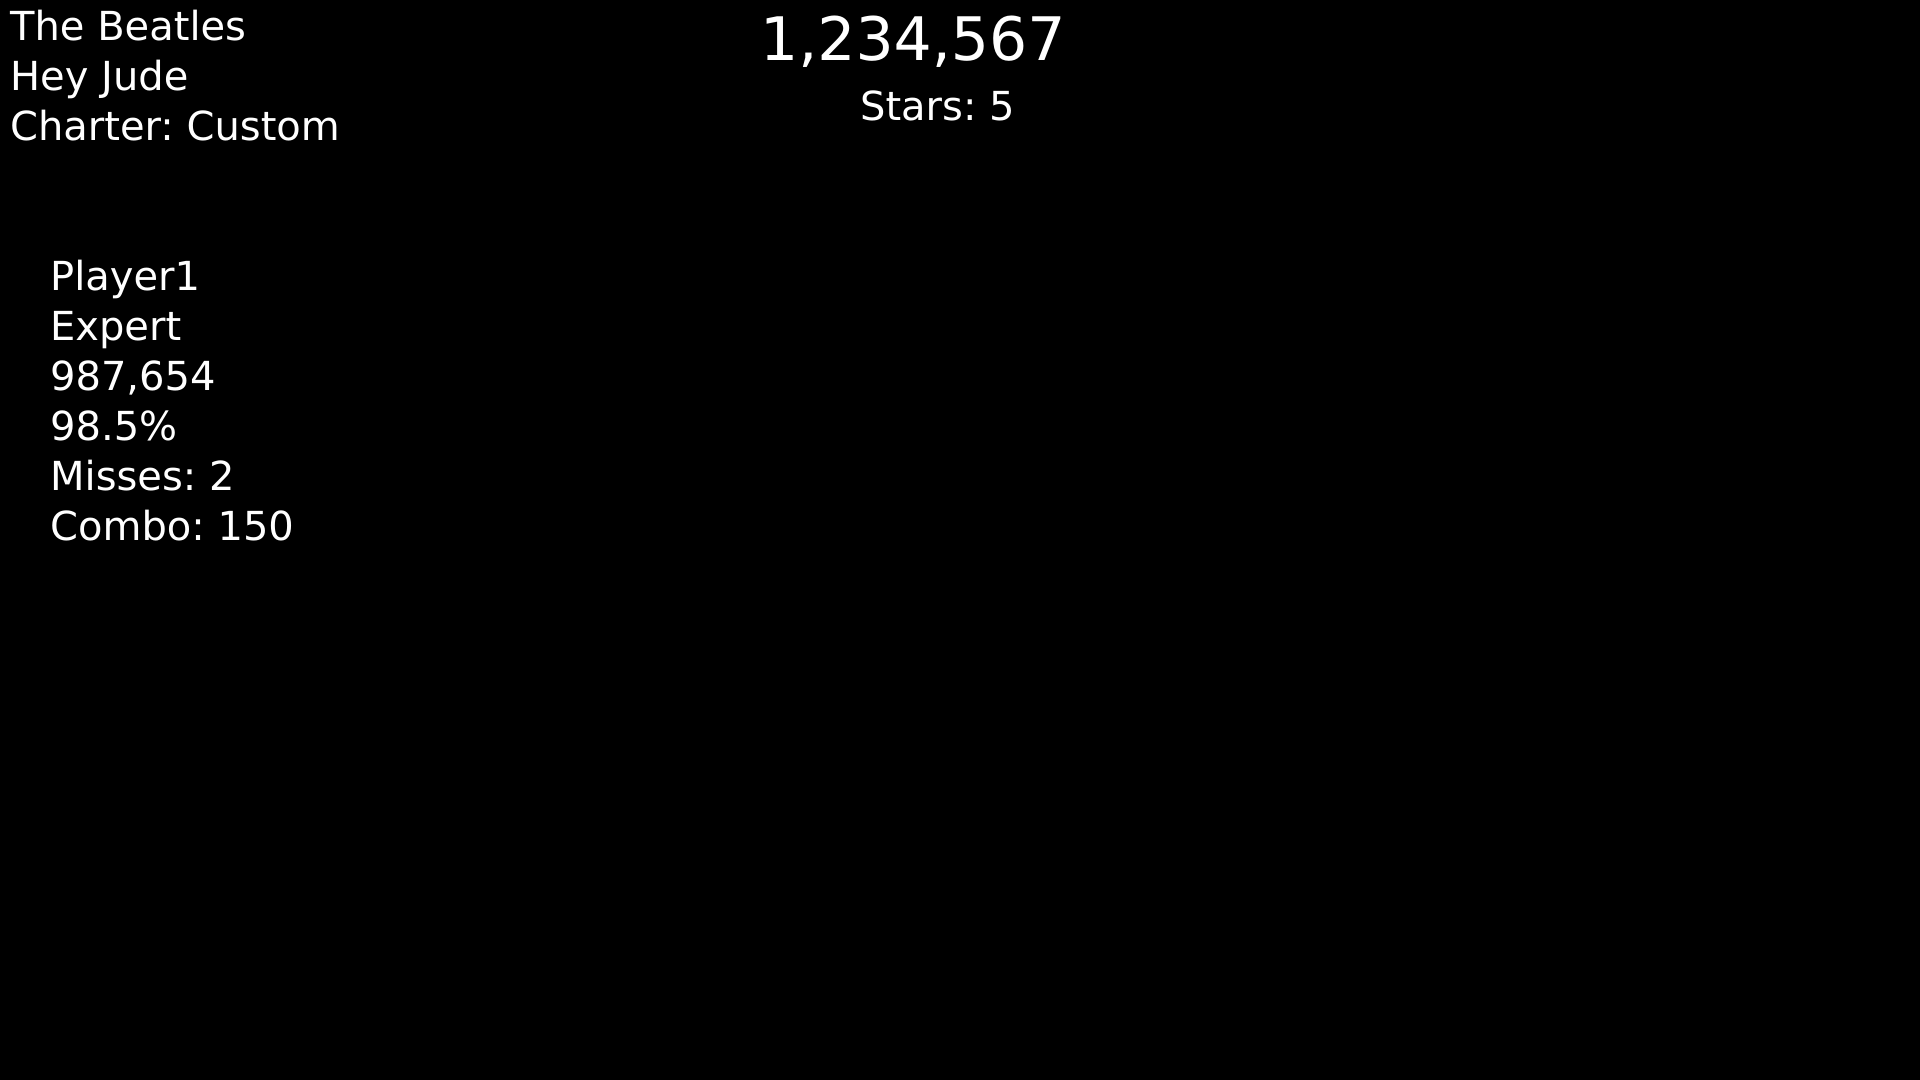
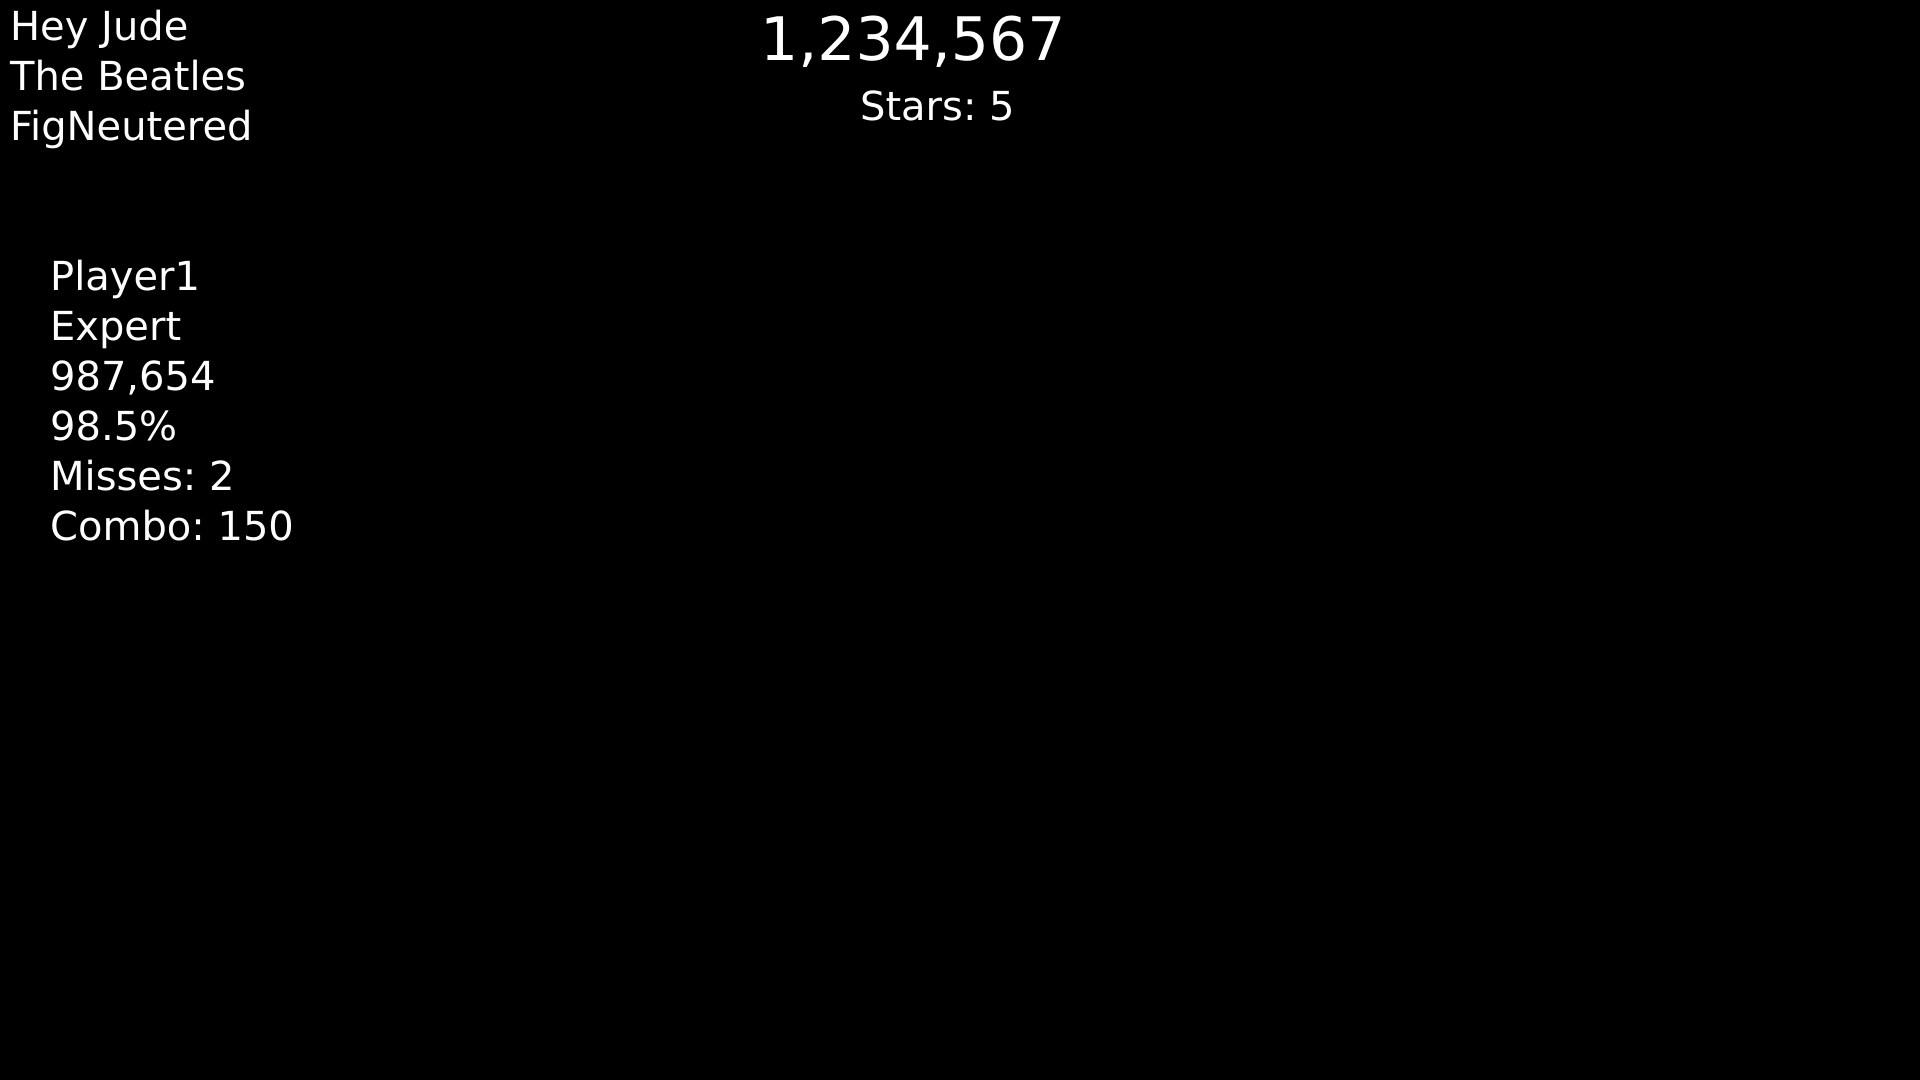
Add test files, clean up existing, update TL parsing

Changed region(s): [[0.0, 0.0, 0.1875, 0.1528]]

diff --git a/backend/internal/parser/parser_test.go b/backend/internal/parser/parser_test.go
@@ -15,6 +15,10 @@ import (
 	"github.com/stretchr/testify/require"
 )
 
+const (
+	_testImagePath = "../../../testdata"
+)
+
 func TestNewParser(t *testing.T) {
 	parser, err := NewParser(1920, 1080)
 	require.NoError(t, err)
@@ -446,50 +450,39 @@ func TestParseImage_InvalidImage(t *testing.T) {
 
 // Test that ParseImage handles files with timestamps in different formats
 func TestParseImage_TimestampFormats(t *testing.T) {
-	// This test requires Tesseract to be installed - fail loudly if not available
-	parser, close := newTestParser(t)
-	defer close()
-
-	// Create a temporary copy of the test image with different timestamp formats
-	// Fail if test image is missing
-	testImagePath := "../../../testdata/images/iamabanana.png"
-	_, err := os.Stat(testImagePath)
-	require.NoError(t, err, "Test image is required but not found: %s. This test requires the test image to be present.", testImagePath)
-
 	testCases := []struct {
 		name     string
 		filename string
+		expected time.Time
 	}{
 		{
-			name:     "timestamp in middle",
-			filename: "clonehero-Artist-20251212052231.png",
+			name:     "timestamp at end",
+			filename: "scores/clonehero-Made-Your-Mark-20251019165816.png",
+			expected: time.Date(2025, 10, 19, 16, 58, 16, 0, time.UTC),
 		},
 		{
 			name:     "timestamp at start",
-			filename: "20251212052231-image.png",
+			filename: "images/20251212052231-iamabanana.png",
+			expected: time.Date(2025, 12, 12, 5, 22, 31, 0, time.UTC),
 		},
 		{
-			name:     "no timestamp",
-			filename: "image.png",
+			name:     "no timestamp in filename falls back to file modification time",
+			filename: "images/iamabanana.png",
+			expected: time.Date(2025, 12, 13, 1, 21, 42, 384011703, time.Local),
 		},
 	}
 
 	for _, tc := range testCases {
 		t.Run(tc.name, func(t *testing.T) {
-			// Create temp file with the test filename
-			tmpDir := t.TempDir()
-			tmpPath := filepath.Join(tmpDir, tc.filename)
+			filepath := filepath.Join(_testImagePath, tc.filename)
+			parser, close := newTestParser(t)
+			defer close()
 
-			// Copy test image
-			data, err := os.ReadFile(testImagePath)
-			require.NoError(t, err)
-			err = os.WriteFile(tmpPath, data, 0644)
-			require.NoError(t, err)
+			scoreData, err := parser.ParseImage(filepath)
 
-			scoreData, err := parser.ParseImage(tmpPath)
-			// Should not error even if timestamp parsing fails (falls back to file mod time)
-			assert.NoError(t, err)
-			assert.NotNil(t, scoreData)
+			require.NoError(t, err)
+			require.NotNil(t, scoreData)
+			assert.Equal(t, tc.expected, scoreData.CreatedAt)
 		})
 	}
 }
@@ -504,100 +497,110 @@ func TestParseImage_TestImages(t *testing.T) {
 		filepath string
 		validate func(*testing.T, *db.CreateScoreData)
 	}{
+		// {
+		// 	name:     "test-top-left",
+		// 	filepath: "../../../testdata/images/test-top-left.png",
+		// 	validate: func(t *testing.T, data *db.CreateScoreData) {
+		// 		// Should extract artist, song, charter from top-left
+		// 		assert.NotEmpty(t, data.Artist, "Should extract artist from top-left")
+		// 		assert.NotEmpty(t, data.SongName, "Should extract song name from top-left")
+		// 	},
+		// },
+		// {
+		// 	name:     "test-center",
+		// 	filepath: "../../../testdata/images/test-center.png",
+		// 	validate: func(t *testing.T, data *db.CreateScoreData) {
+		// 		// Should extract score and stars from center
+		// 		// Note: OCR may not always extract perfectly, so we just check structure
+		// 		assert.NotNil(t, data, "Should parse center image")
+		// 	},
+		// },
+		// {
+		// 	name:     "test-players",
+		// 	filepath: "../../../testdata/images/test-players.png",
+		// 	validate: func(t *testing.T, data *db.CreateScoreData) {
+		// 		// Should extract player data
+		// 		assert.Greater(t, len(data.Players), 0, "Should extract at least one player")
+		// 	},
+		// },
+		// {
+		// 	name:     "test-numbers",
+		// 	filepath: "../../../testdata/images/test-numbers.png",
+		// 	validate: func(t *testing.T, data *db.CreateScoreData) {
+		// 		// Should handle various number formats
+		// 		assert.NotNil(t, data, "Should parse numbers image")
+		// 	},
+		// },
+		// {
+		// 	name:     "test-difficulty",
+		// 	filepath: "../../../testdata/images/test-difficulty.png",
+		// 	validate: func(t *testing.T, data *db.CreateScoreData) {
+		// 		// Should extract difficulty information
+		// 		assert.NotNil(t, data, "Should parse difficulty image")
+		// 	},
+		// },
+		// {
+		// 	name:     "test-percentages",
+		// 	filepath: "../../../testdata/images/test-percentages.png",
+		// 	validate: func(t *testing.T, data *db.CreateScoreData) {
+		// 		// Should extract percentage values
+		// 		assert.NotNil(t, data, "Should parse percentages image")
+		// 	},
+		// },
+		// {
+		// 	name:     "test-complete",
+		// 	filepath: "../../../testdata/images/test-complete.png",
+		// 	validate: func(t *testing.T, data *db.CreateScoreData) {
+		// 		// Should extract all elements
+		// 		assert.NotEmpty(t, data.Artist, "Should extract artist")
+		// 		assert.NotEmpty(t, data.SongName, "Should extract song name")
+		// 		assert.NotNil(t, data.TotalScore, "Should extract total score")
+		// 		assert.Greater(t, len(data.Players), 0, "Should extract players")
+		// 	},
+		// },
+		// {
+		// 	name:     "test-stars",
+		// 	filepath: "../../../testdata/images/test-stars.png",
+		// 	validate: func(t *testing.T, data *db.CreateScoreData) {
+		// 		// Should extract star information
+		// 		assert.NotNil(t, data, "Should parse stars image")
+		// 	},
+		// // },
+		// {
+		// 	name:     "test-misses",
+		// 	filepath: "../../../testdata/images/test-misses.png",
+		// 	validate: func(t *testing.T, data *db.CreateScoreData) {
+		// 		// Should extract miss information
+		// 		assert.NotNil(t, data, "Should parse misses image")
+		// 	},
+		// },
 		{
-			name:     "test-top-left",
-			filepath: "../../../testdata/images/test-top-left.png",
-			validate: func(t *testing.T, data *db.CreateScoreData) {
-				// Should extract artist, song, charter from top-left
-				assert.NotEmpty(t, data.Artist, "Should extract artist from top-left")
-				assert.NotEmpty(t, data.SongName, "Should extract song name from top-left")
-			},
-		},
-		{
-			name:     "test-center",
-			filepath: "../../../testdata/images/test-center.png",
-			validate: func(t *testing.T, data *db.CreateScoreData) {
-				// Should extract score and stars from center
-				// Note: OCR may not always extract perfectly, so we just check structure
-				assert.NotNil(t, data, "Should parse center image")
-			},
-		},
-		{
-			name:     "test-players",
-			filepath: "../../../testdata/images/test-players.png",
-			validate: func(t *testing.T, data *db.CreateScoreData) {
-				// Should extract player data
-				assert.Greater(t, len(data.Players), 0, "Should extract at least one player")
-			},
-		},
-		{
-			name:     "test-numbers",
-			filepath: "../../../testdata/images/test-numbers.png",
-			validate: func(t *testing.T, data *db.CreateScoreData) {
-				// Should handle various number formats
-				assert.NotNil(t, data, "Should parse numbers image")
-			},
-		},
-		{
-			name:     "test-difficulty",
-			filepath: "../../../testdata/images/test-difficulty.png",
-			validate: func(t *testing.T, data *db.CreateScoreData) {
-				// Should extract difficulty information
-				assert.NotNil(t, data, "Should parse difficulty image")
-			},
-		},
-		{
-			name:     "test-percentages",
-			filepath: "../../../testdata/images/test-percentages.png",
-			validate: func(t *testing.T, data *db.CreateScoreData) {
-				// Should extract percentage values
-				assert.NotNil(t, data, "Should parse percentages image")
-			},
-		},
-		{
-			name:     "test-complete",
-			filepath: "../../../testdata/images/test-complete.png",
-			validate: func(t *testing.T, data *db.CreateScoreData) {
-				// Should extract all elements
-				assert.NotEmpty(t, data.Artist, "Should extract artist")
-				assert.NotEmpty(t, data.SongName, "Should extract song name")
-				assert.NotNil(t, data.TotalScore, "Should extract total score")
-				assert.Greater(t, len(data.Players), 0, "Should extract players")
-			},
-		},
-		{
-			name:     "test-stars",
-			filepath: "../../../testdata/images/test-stars.png",
-			validate: func(t *testing.T, data *db.CreateScoreData) {
-				// Should extract star information
-				assert.NotNil(t, data, "Should parse stars image")
-			},
-		},
-		{
-			name:     "test-misses",
-			filepath: "../../../testdata/images/test-misses.png",
+			name:     "test-misses real",
+			filepath: "../../../testdata/scores/clonehero-Tripping-Billies-20251209195440.png",
 			validate: func(t *testing.T, data *db.CreateScoreData) {
 				// Should extract miss information
 				assert.NotNil(t, data, "Should parse misses image")
+				assert.Equal(t, data.Players[0].NotesMissed, 79)
+				assert.Equal(t, data.Players[0].NotesMissed, 229)
 			},
 		},
-		{
-			name:     "test-large",
-			filepath: "../../../testdata/images/test-large.png",
-			validate: func(t *testing.T, data *db.CreateScoreData) {
-				// Should handle large images (resized)
-				assert.NotNil(t, data, "Should parse large image after resizing")
-			},
-		},
-		{
-			name:     "test-image-jpeg",
-			filepath: "../../../testdata/images/test-image.jpg",
-			validate: func(t *testing.T, data *db.CreateScoreData) {
-				// JPEG images are not supported; expect an error/failure
-				fmt.Printf("data: %v", data)
-				assert.Nil(t, data, "JPEG images should not be parsed successfully (only PNG supported)")
-			},
-		},
+		// {
+		// 	name:     "test-large",
+		// 	filepath: "../../../testdata/images/test-large.png",
+		// 	validate: func(t *testing.T, data *db.CreateScoreData) {
+		// 		// Should handle large images (resized)
+		// 		assert.NotNil(t, data, "Should parse large image after resizing")
+		// 	},
+		// },
+		// {
+		// 	name:     "test-image-jpeg",
+		// 	filepath: "../../../testdata/images/test-image.jpg",
+		// 	validate: func(t *testing.T, data *db.CreateScoreData) {
+		// 		// JPEG images are not supported; expect an error/failure
+		// 		fmt.Printf("data: %v", data)
+		// 		assert.Nil(t, data, "JPEG images should not be parsed successfully (only PNG supported)")
+		// 	},
+		// },
 	}
 
 	for _, tc := range testImages {
@@ -631,6 +634,9 @@ func TestParseImage_TestImages(t *testing.T) {
 			}
 
 			// Always run validation, passing both scoreData and error
+
+			fmt.Printf("scoreData: %v", scoreData)
+			fmt.Printf("parseErr: %v", parseErr)
 			s.validateFn(t, scoreData, parseErr)
 		})
 	}
@@ -652,24 +658,27 @@ func TestParseImage_EmptyImage(t *testing.T) {
 	assert.NotNil(t, scoreData, "Parsed data should not be nil even for empty image")
 }
 
-func TestExtractTopLeftInfo_TestImage(t *testing.T) {
-	parser, close := newTestParser(t)
-	defer close()
-
-	imagePath := "../../../testdata/images/test-top-left.png"
+func testImage(t *testing.T, parser *Parser, imagePath string) image.Image {
 	_, err := os.Stat(imagePath)
 	require.NoError(t, err, "Test image is required but not found: %s. Run 'make generate-test-images' to create it.", imagePath)
 
 	img, err := parser.loadImage(imagePath)
 	require.NoError(t, err)
 
+	return img
+}
+
+func TestExtractTopLeftInfo_TestImage(t *testing.T) {
+	parser, close := newTestParser(t)
+	defer close()
+	imagePath := filepath.Join(_testImagePath, "images", "test-top-left.png")
+	img := testImage(t, parser, imagePath)
+
 	artist, songName, charter := parser.extractTopLeftInfo(img)
 
-	// Verify extraction from top-left region
-	assert.NotEmpty(t, artist, "Should extract artist from top-left region")
-	assert.NotEmpty(t, songName, "Should extract song name from top-left region")
-	// Charter may or may not be extracted depending on OCR accuracy
-	_ = charter // Suppress unused variable warning
+	assert.Equal(t, artist, "The Beatles")
+	assert.Equal(t, songName, "Hey Jude")
+	assert.Equal(t, charter, "_Pix")
 }
 
 func TestExtractCenterInfo_TestImage(t *testing.T) {

diff --git a/backend/internal/parser/parser.go b/backend/internal/parser/parser.go
@@ -144,7 +144,7 @@ func (p *Parser) ParseImage(imagePath string) (*db.CreateScoreData, error) {
 	}
 
 	// Extract text from different regions
-	artist, songName, charter := p.extractTopLeftInfo(img)
+	songName, artist, charter := p.extractTopLeftInfo(img)
 	totalScore, stars := p.extractCenterInfo(img)
 	players := p.extractPlayers(img)
 
@@ -298,22 +298,13 @@ func (p *Parser) extractTopLeftInfo(img image.Image) (artist, songName string, c
 	log.Printf("extracted top-left OCR lines (%d): %q", len(lines), lines)
 
 	if len(lines) > 0 {
-		artist = strings.TrimSpace(lines[0])
+		songName = strings.TrimSpace(lines[0])
 	}
 	if len(lines) > 1 {
-		songName = strings.TrimSpace(lines[1])
+		artist = strings.TrimSpace(lines[1])
 	}
 	if len(lines) > 2 {
-		c := strings.TrimSpace(lines[2])
-		// Check if line contains "charter" keyword
-		if strings.HasPrefix(strings.ToLower(c), "charter") {
-			// Remove "charter:" prefix if present
-			c = strings.TrimPrefix(strings.TrimPrefix(c, "Charter:"), "charter:")
-			c = strings.TrimSpace(c)
-		}
-		if c != "" {
-			charter = c
-		}
+		charter = strings.TrimSpace(lines[2])
 	}
 
 	// Validation: If songName is empty but artist is set, there might be an issue

diff --git a/backend/scripts/generate_test_images.go b/backend/scripts/generate_test_images.go
@@ -82,9 +82,9 @@ func createTestTopLeft() image.Image {
 	dc.Clear()
 
 	// Top-left region: 0-30% width, 0-20% height
-	drawText(dc, 10, 40, "The Beatles", 40)
-	drawText(dc, 10, 90, "Hey Jude", 40)
-	drawText(dc, 10, 140, "Charter: Custom", 40)
+	drawText(dc, 10, 40, "Hey Jude", 40)
+	drawText(dc, 10, 90, "The Beatles", 40)
+	drawText(dc, 10, 140, "_Pix", 40)
 
 	return dc.Image()
 }
@@ -277,10 +277,10 @@ func createTestComplete() image.Image {
 	dc.SetRGB(0, 0, 0) // Black background
 	dc.Clear()
 
-	// Top-left: Artist, Song, Charter
-	drawText(dc, 10, 40, "The Beatles", 40)
-	drawText(dc, 10, 90, "Hey Jude", 40)
-	drawText(dc, 10, 140, "Charter: Custom", 40)
+	// Top-left: Song, Artist, Charter
+	drawText(dc, 10, 40, "Hey Jude", 40)
+	drawText(dc, 10, 90, "The Beatles", 40)
+	drawText(dc, 10, 140, "FigNeutered", 40)
 
 	// Center: Score and Stars
 	centerX := float64(width) / 2
